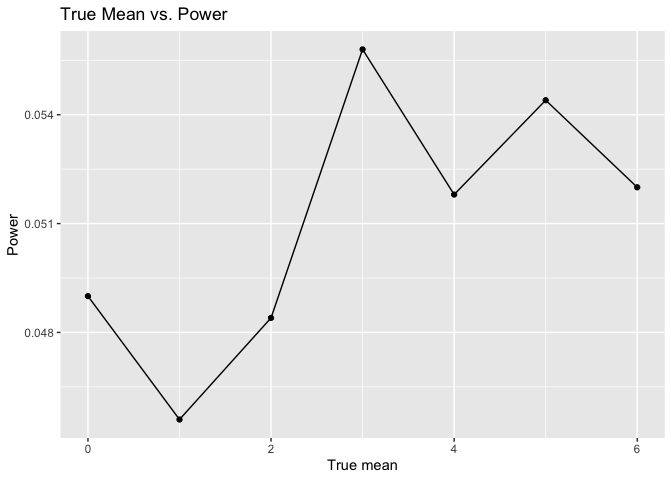
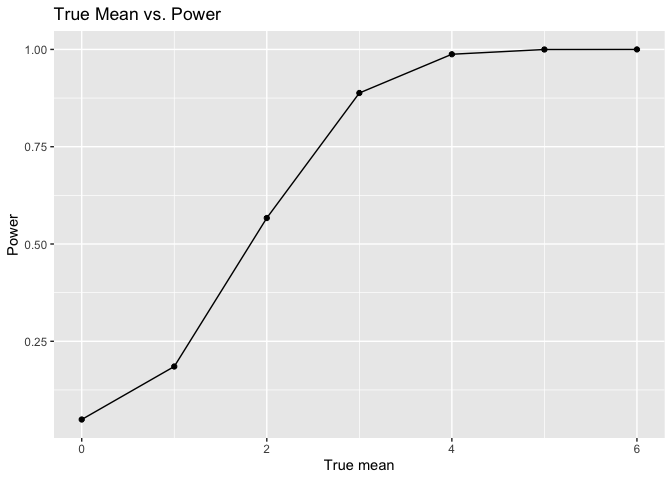
completed problem 2

diff --git a/p8105_hw5_mk4995.md b/p8105_hw5_mk4995.md
@@ -114,7 +114,7 @@ get_data = function(true_mean, n = 30, sigma = 5, reps = 5000) {
   sim_data |> 
   mutate(
     mu_hats = map_dbl(sample, mean),
-    t_test = map(sample, \(x) broom::tidy(t.test(x, mu = true_mean, conf.level = 0.95))),
+    t_test = map(sample, \(x) broom::tidy(t.test(x, conf.level = 0.95))),
     p_values = map_dbl(t_test, \(x) x$p.value)
   ) |> 
   select(id, mu_hats, p_values)
@@ -143,10 +143,10 @@ axis.**
 
 ``` r
 final_df |> 
-  group_by(mu) |> 
+  group_by(mu) |>
   summarize(
     prop_rejected = mean(p_values < alpha)
-  ) |> 
+  ) |>
   ggplot(aes(x = mu, y = prop_rejected)) +
   geom_point() +
   geom_line() + 
@@ -158,3 +158,44 @@ final_df |>
 ```
 
 ![](p8105_hw5_mk4995_files/figure-gfm/unnamed-chunk-8-1.png)<!-- -->
+
+As the size of the mean increases, the power of the test increases. This
+implies that as the effect size increases, so does the probability of
+correctly rejecting the null hypothesis (mu = 0).
+
+**Make a plot showing the average estimate of mu-hats for all tests, as
+well as for only rejected tests, on the y axis and the true value of mu
+on the x axis.**
+
+``` r
+final_df |> 
+  group_by(mu) |> 
+  summarize(
+    avg_estimate = mean(mu_hats),
+    avg_rejected_estimate = mean(mu_hats[p_values < alpha])
+  ) |> 
+  ggplot(aes(x = mu)) +
+  geom_line(aes(y = avg_estimate, color = "All Samples")) +
+  geom_point(aes(y = avg_estimate, color = "All Samples")) +
+  geom_line(aes(y = avg_rejected_estimate, color = "Null Rejected")) +
+  geom_point(aes(y = avg_rejected_estimate, color = "Null Rejected")) +
+  labs(
+    title = "Average Estimate of Mu-hat vs. True Mu",
+    x = "True mean",
+    y = "Average mean estimate",
+    color = "Sample Group"
+  ) +
+  scale_color_manual(
+    values = c("All Samples" = "blue", "Null Rejected" = "purple")
+  )
+```
+
+![](p8105_hw5_mk4995_files/figure-gfm/unnamed-chunk-9-1.png)<!-- -->
+
+Across all samples, the average estimate is approximately equal to the
+true mean. The estimate for the sample population where the null was
+rejected is less likely to be equal to the true mean, which makes sense,
+because it represents the population where the mean estimate was
+significantly different from the true mean. Overall, though, as the
+effect size increases, the average estimate across both sample groups
+become approximately equal.
